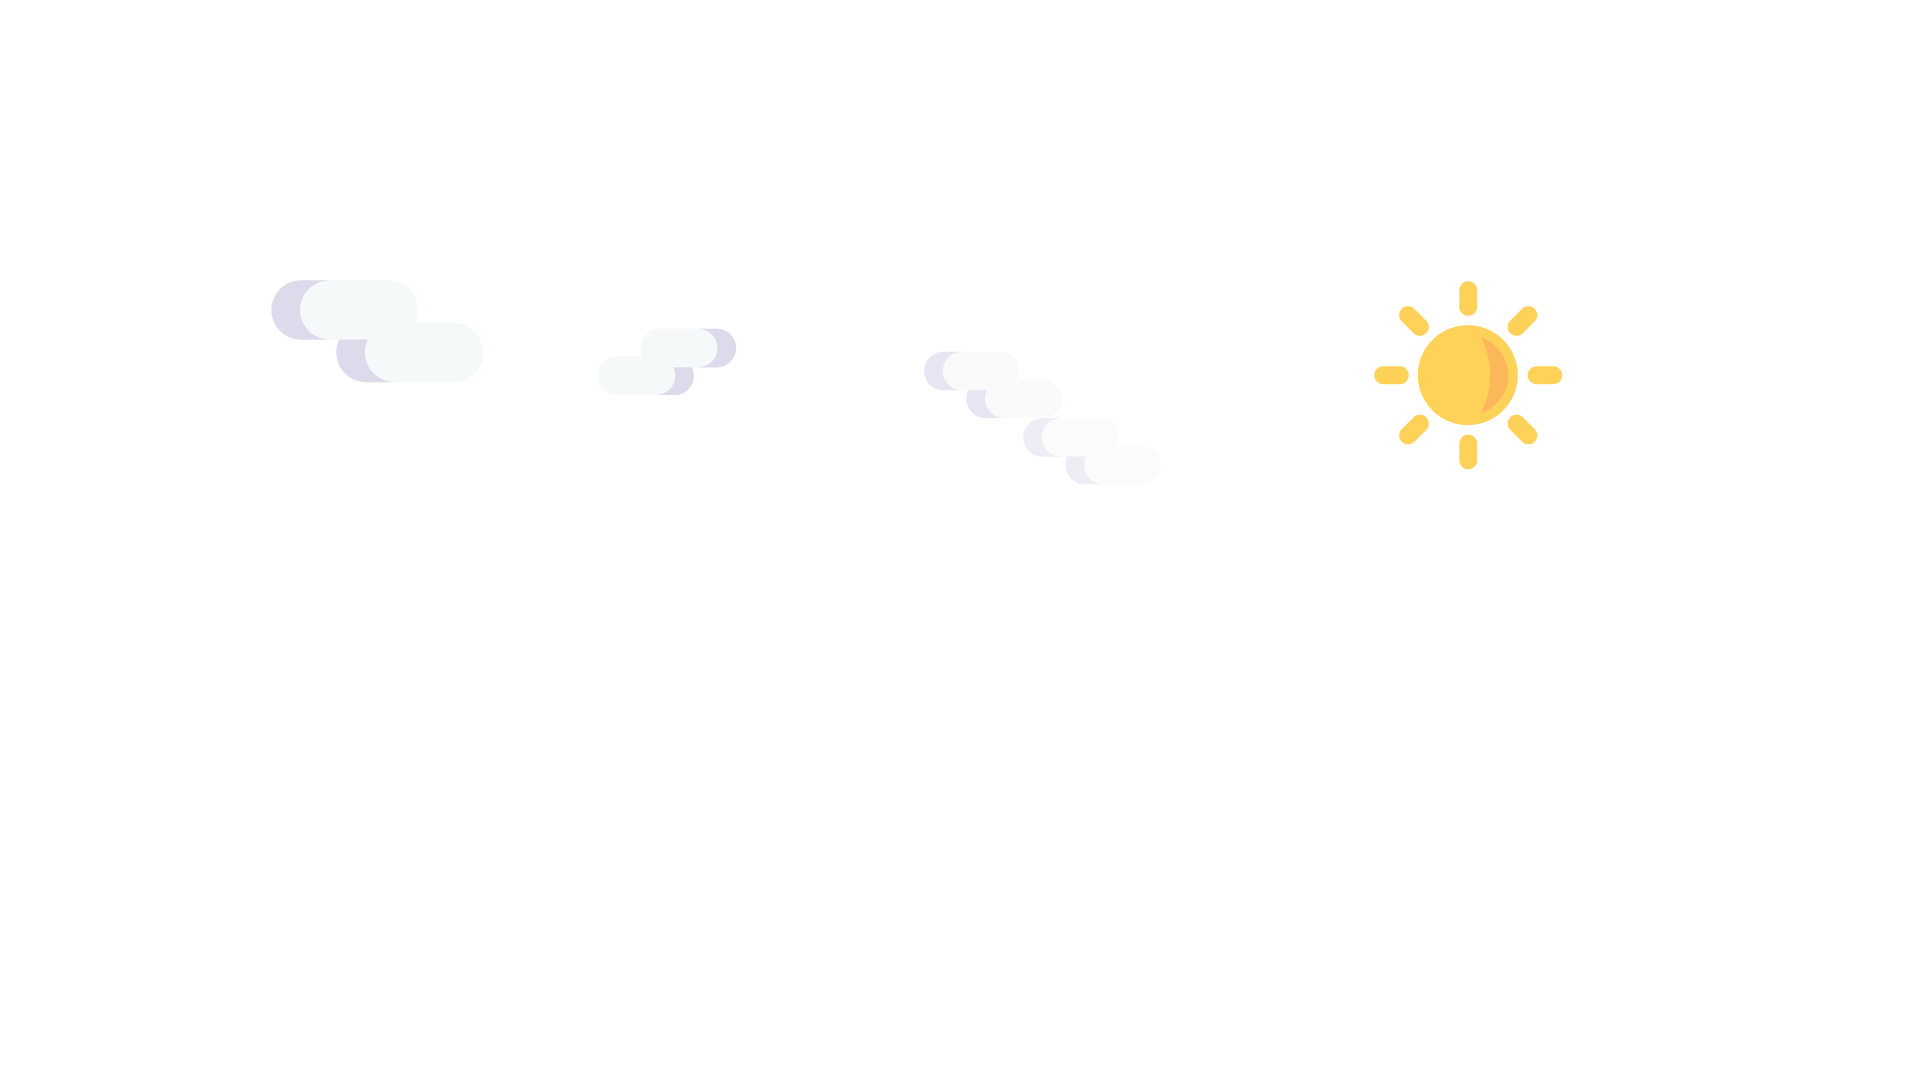
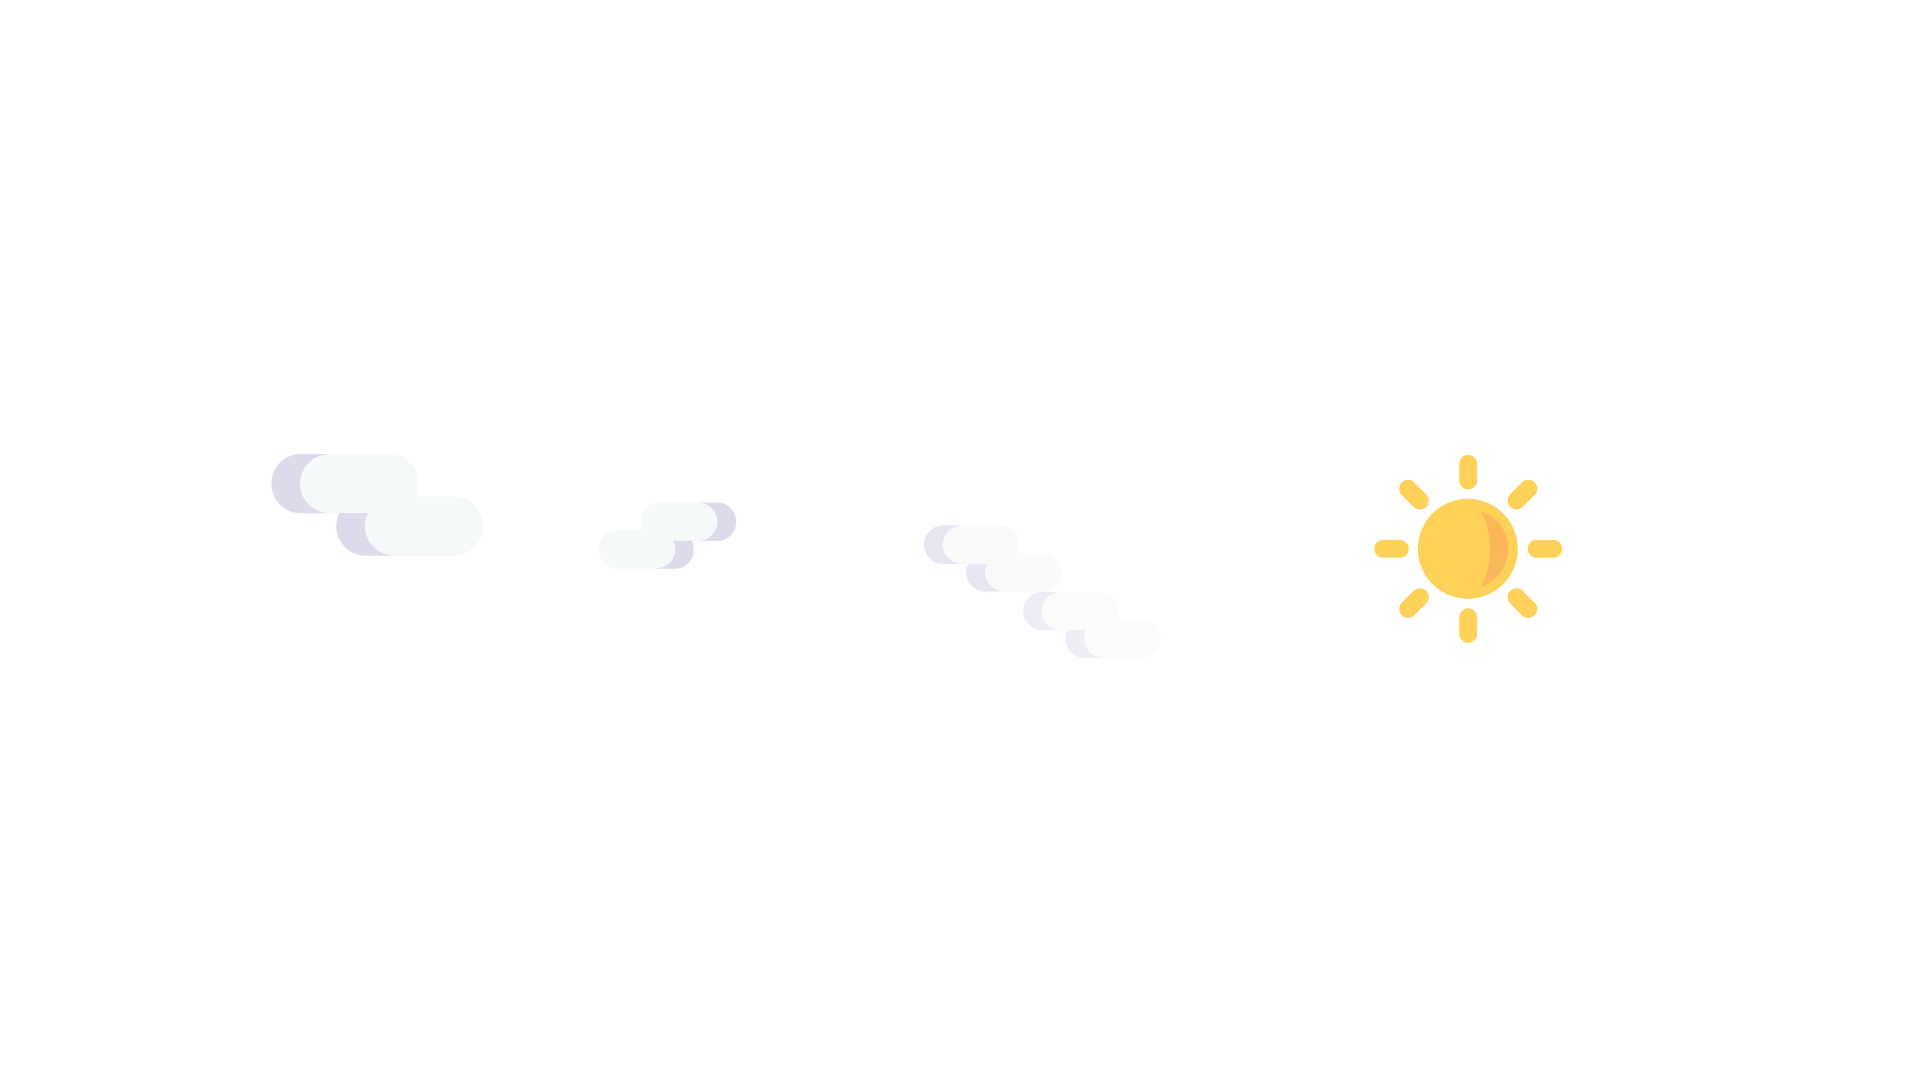
parallax 이미지수정

diff --git a/code/js/src/js_026_parallax_02.js b/code/js/src/js_026_parallax_02.js
@@ -1,0 +1,25 @@
+// js_026_parallax_02.js
+(function($){
+// jQuery
+
+// 목적: 스크롤이 움직일때, 각 이미지 (.par_01~.par_07)의 위치가 변동
+// 1. 스크롤 이벤트, 스크롤이 움직인 값이 얼만큼?
+
+// 변수 ---------------------------------------
+var win = $(window);
+
+// 함수 ---------------------------------------
+var moveImageFn = function(){
+   var winScroll = win.scrollTop(); 
+   console.log( winScroll );
+}
+
+//===============================================
+// 이벤트 ---------------------------------------
+win.on( 'scroll', moveImageFn );
+// win.on( 'scroll', function(e){
+//   var winScroll = win.scrollTop(); 
+//   console.log( winScroll );
+// });
+
+})(jQuery);

diff --git a/code/css/src/js_026_parallax_02.css b/code/css/src/js_026_parallax_02.css
@@ -55,7 +55,7 @@ text-align: center;}
   width: 100%; height: 100%;
   background-repeat: no-repeat;
   background-size: 100% auto;
-  background-position: 50% 0%;
+  background-position: 50% 100%;
 }
 
 .par_01 { background-image: url("../../img/parallax_multi/parallax_01.png");}
